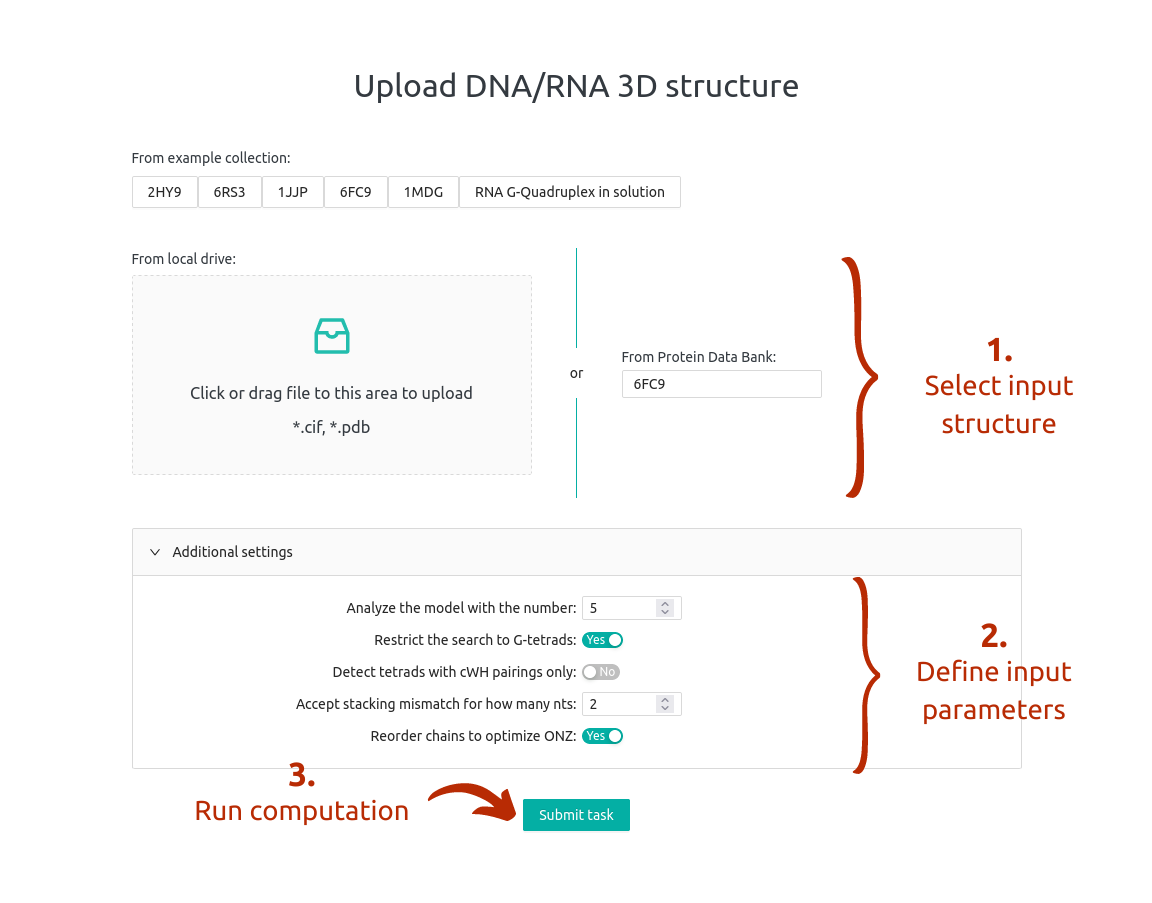
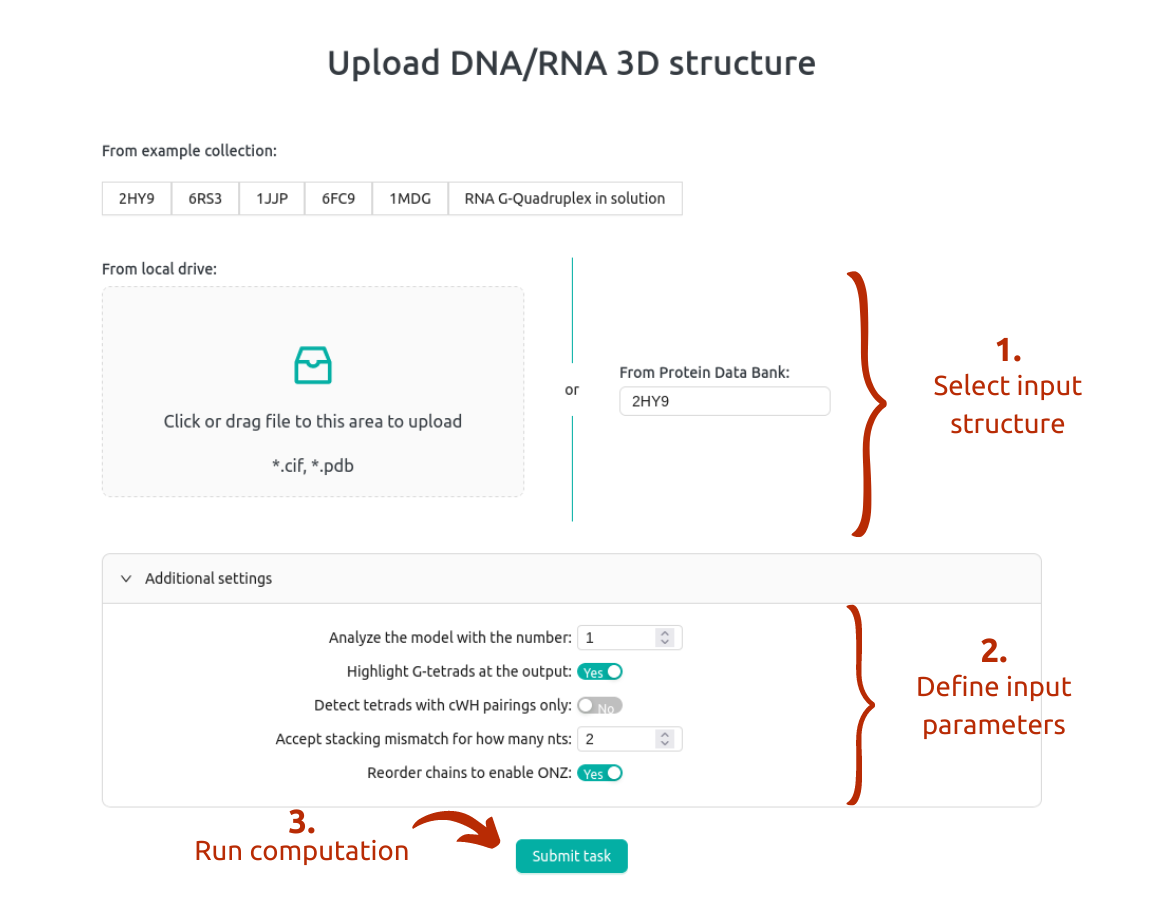
change restrict tetradro settings field

diff --git a/frontend/src/components/help/Help.tsx b/frontend/src/components/help/Help.tsx
@@ -39,7 +39,7 @@ export const Help = () => {
             <p>After uploading the tertiary structure file, users can set additional parameters that condition the analysis of the input data and affect the result of their processing. WebTetrado allows setting the following five parameters on the "Additional settings" panel:</p>
             <ul>
               <li>&#8226; "Analyze the model with the number &lt;N&gt;" - if the input file includes more than one model of the structure, users can select which model to process;</li>
-              <li>&#8226; "Restrict the search to G-tetrads" - tetrad is usually made of four guanines, however, other nucleotides can also participate in tetrad formation; WebTetrado can look for all tetrads or G-tetrads only depending on this setting;</li>
+              <li>&#8226; "Highlight G-tetrads at the output" - tetrad is usually made of four guanines, however, other nucleotides can also participate in tetrad formation; WebTetrado can look for all tetrads or G-tetrads only depending on this setting;</li>
               <li>&#8226; "Detect tetrads with cWH pairings only" - nucleotides in a tetrad usually interact through Watson-Crick-Franklin and Hoogsteen edges forming cis WH base pair conformations; strict definition of a tetrad involves only such pairings; however, other interactions may also contribute to tetrad formation; WebTetrado can detect tetrads according to strict definition or tetrads formed by any type of interactions;</li>
               <li>&#8226; "Accept stacking mismatch for how many nts &lt;N&gt;" - a perfect tetrad stacking covers 4 nucleotides; this option can be used with value 1 or 2 to allow this number of nucleotides to be non-stacked with otherwise well-aligned tetrad;</li>
               <li>&#8226; "Reorder chains to enable ONZ" - chains of bi- and tetramolecular quadruplexes should be reordered to be able to have them classified according to ONZ; when this option is set, chains will be processed in the original order, which for bi-/tetramolecular means that they will likely be misclassified.</li>
@@ -56,7 +56,7 @@ export const Help = () => {
                 <td>1, 2, 3, ..., number of the last model</td>
               </tr>
               <tr>
-                <td>Restrict the search to G-tetrads</td>
+                <td>Highlight G-tetrads at the output</td>
                 <td>Yes</td>
                 <td>Yes, No</td>
               </tr>

diff --git a/frontend/src/components/home/RequestForm.tsx b/frontend/src/components/home/RequestForm.tsx
@@ -353,7 +353,7 @@ export default function RequestForm() {
               </Form.Item>
               <Form.Item valuePropName="checked">
                 <div className="horizontal-item-center">
-                  <div className="item-label"><Tooltip title="Highlight G4 results">Restrict the search to G-tetrads: </Tooltip> </div>
+                  <div className="item-label"><Tooltip title="Distinguish GGGG tetrads in the result view">Highlight G-tetrads at the output: </Tooltip> </div>
                   <Switch
                     size={
                       !context.viewSettings.isCompressedViewNeeded
